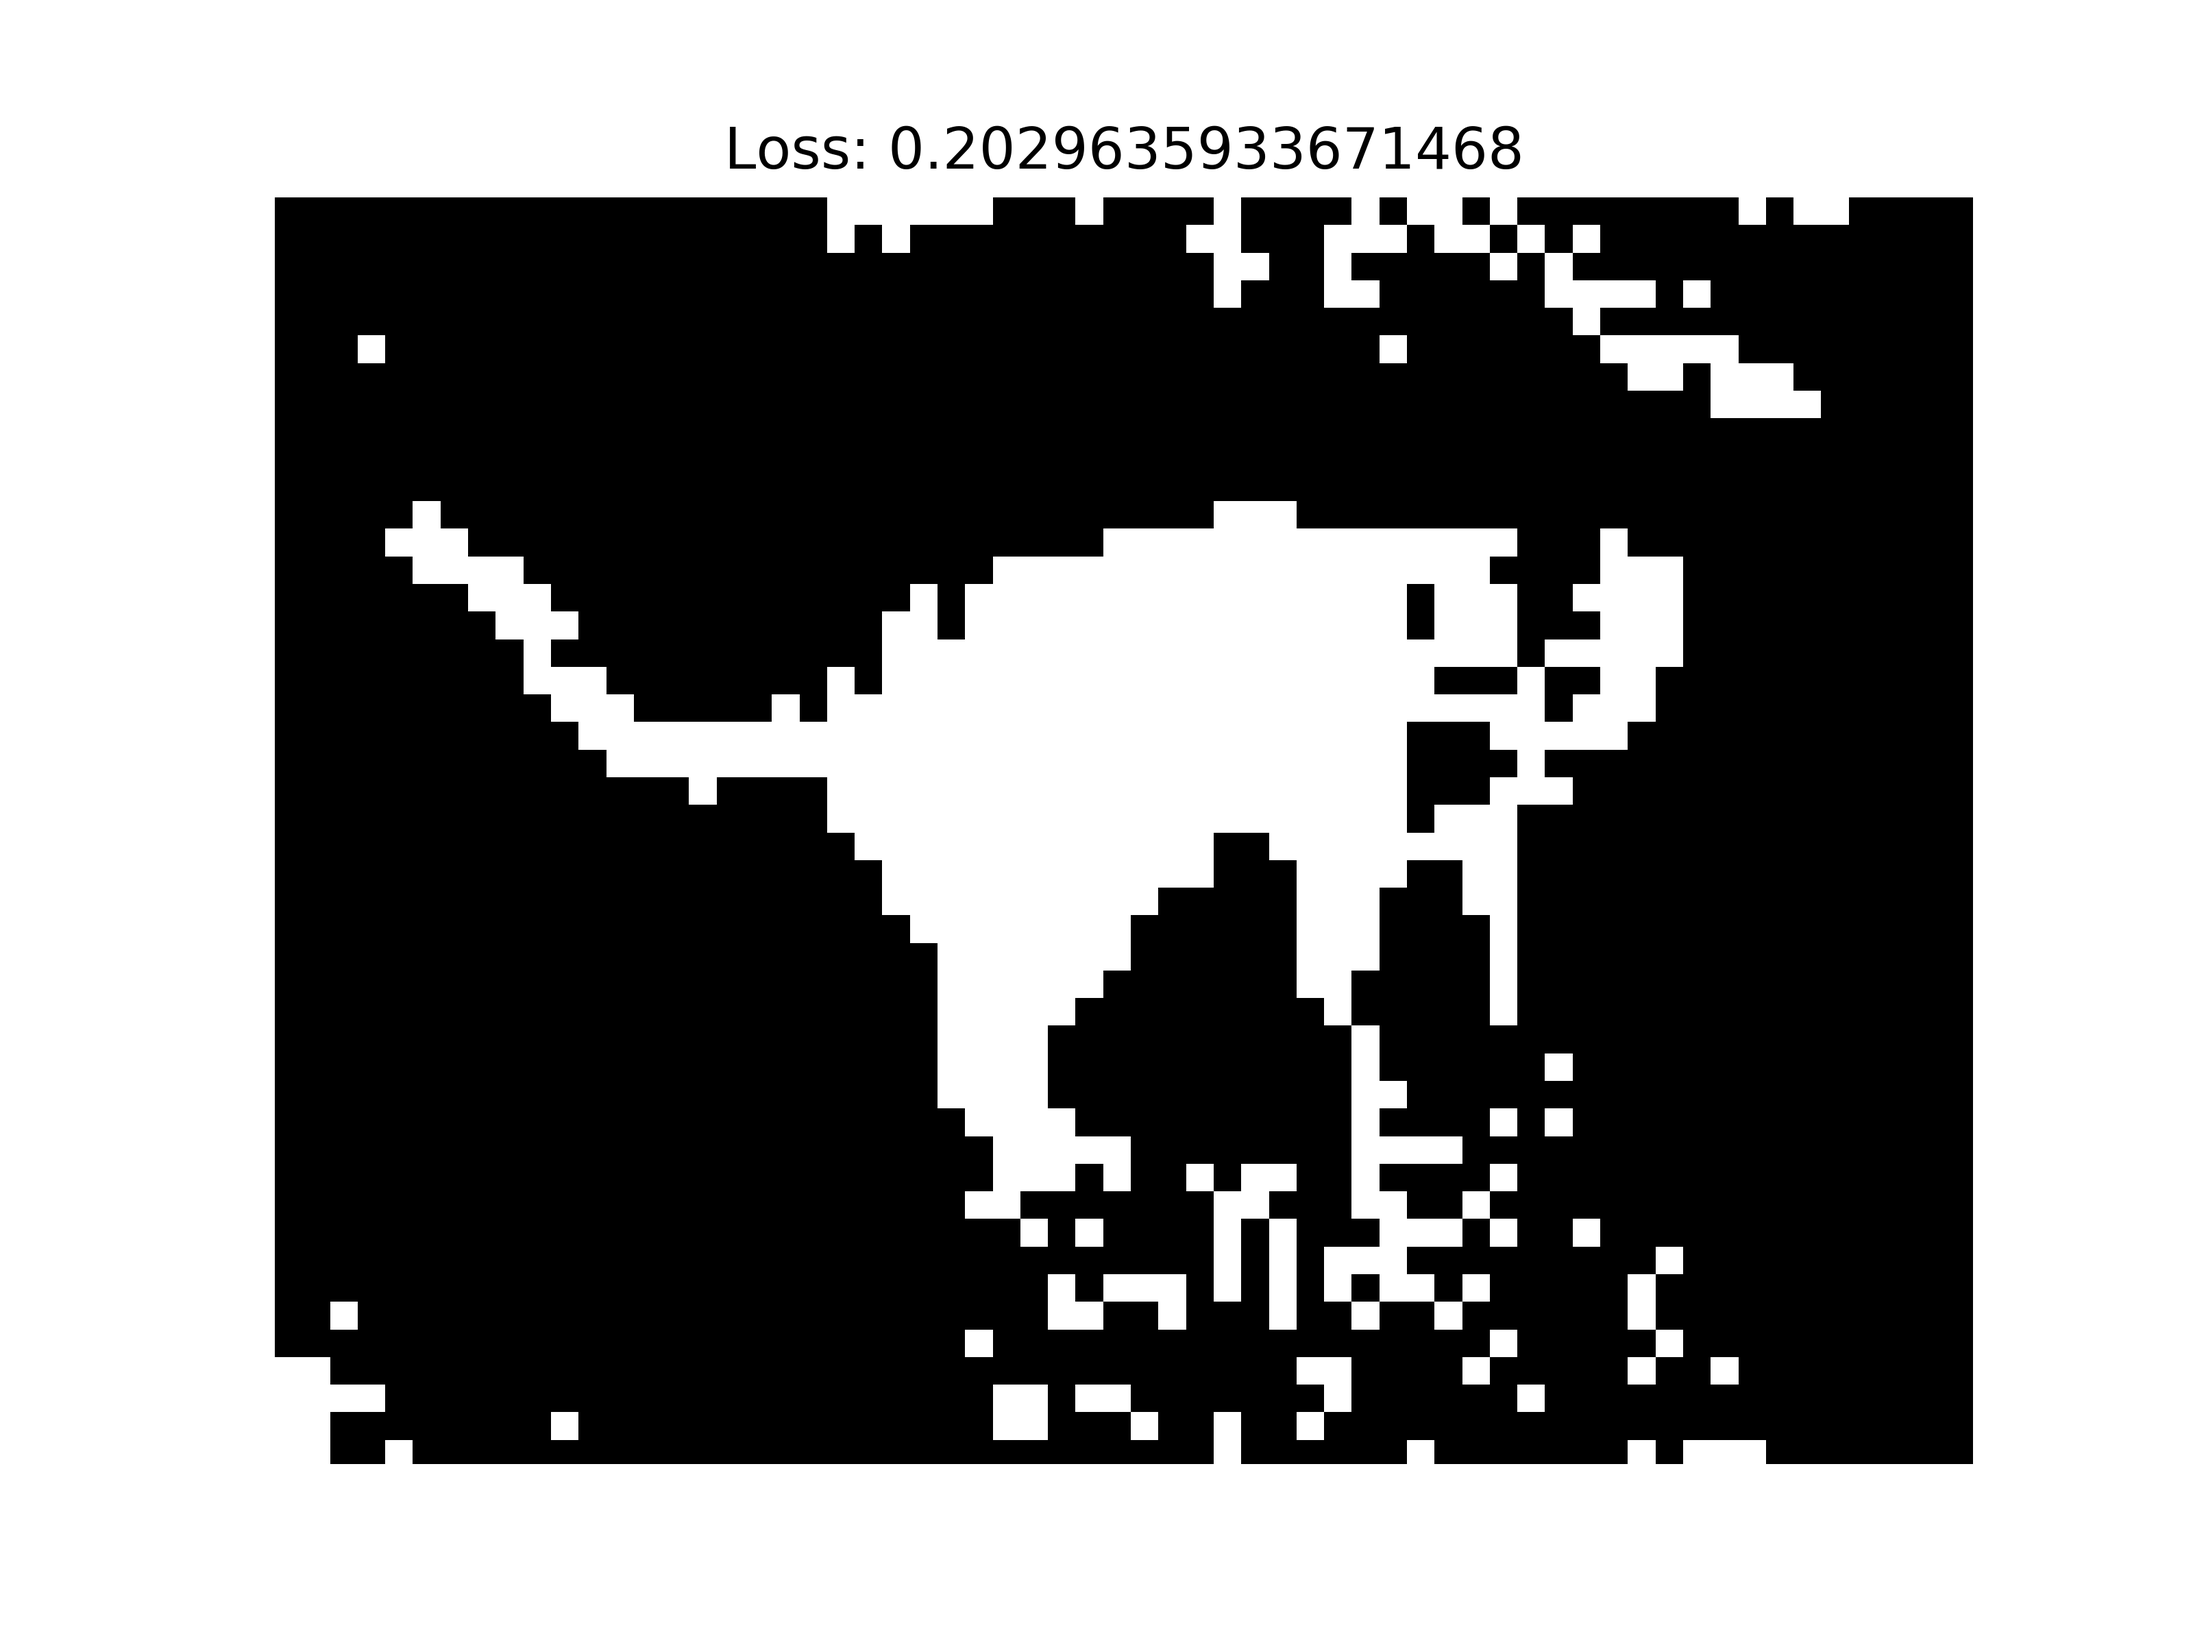
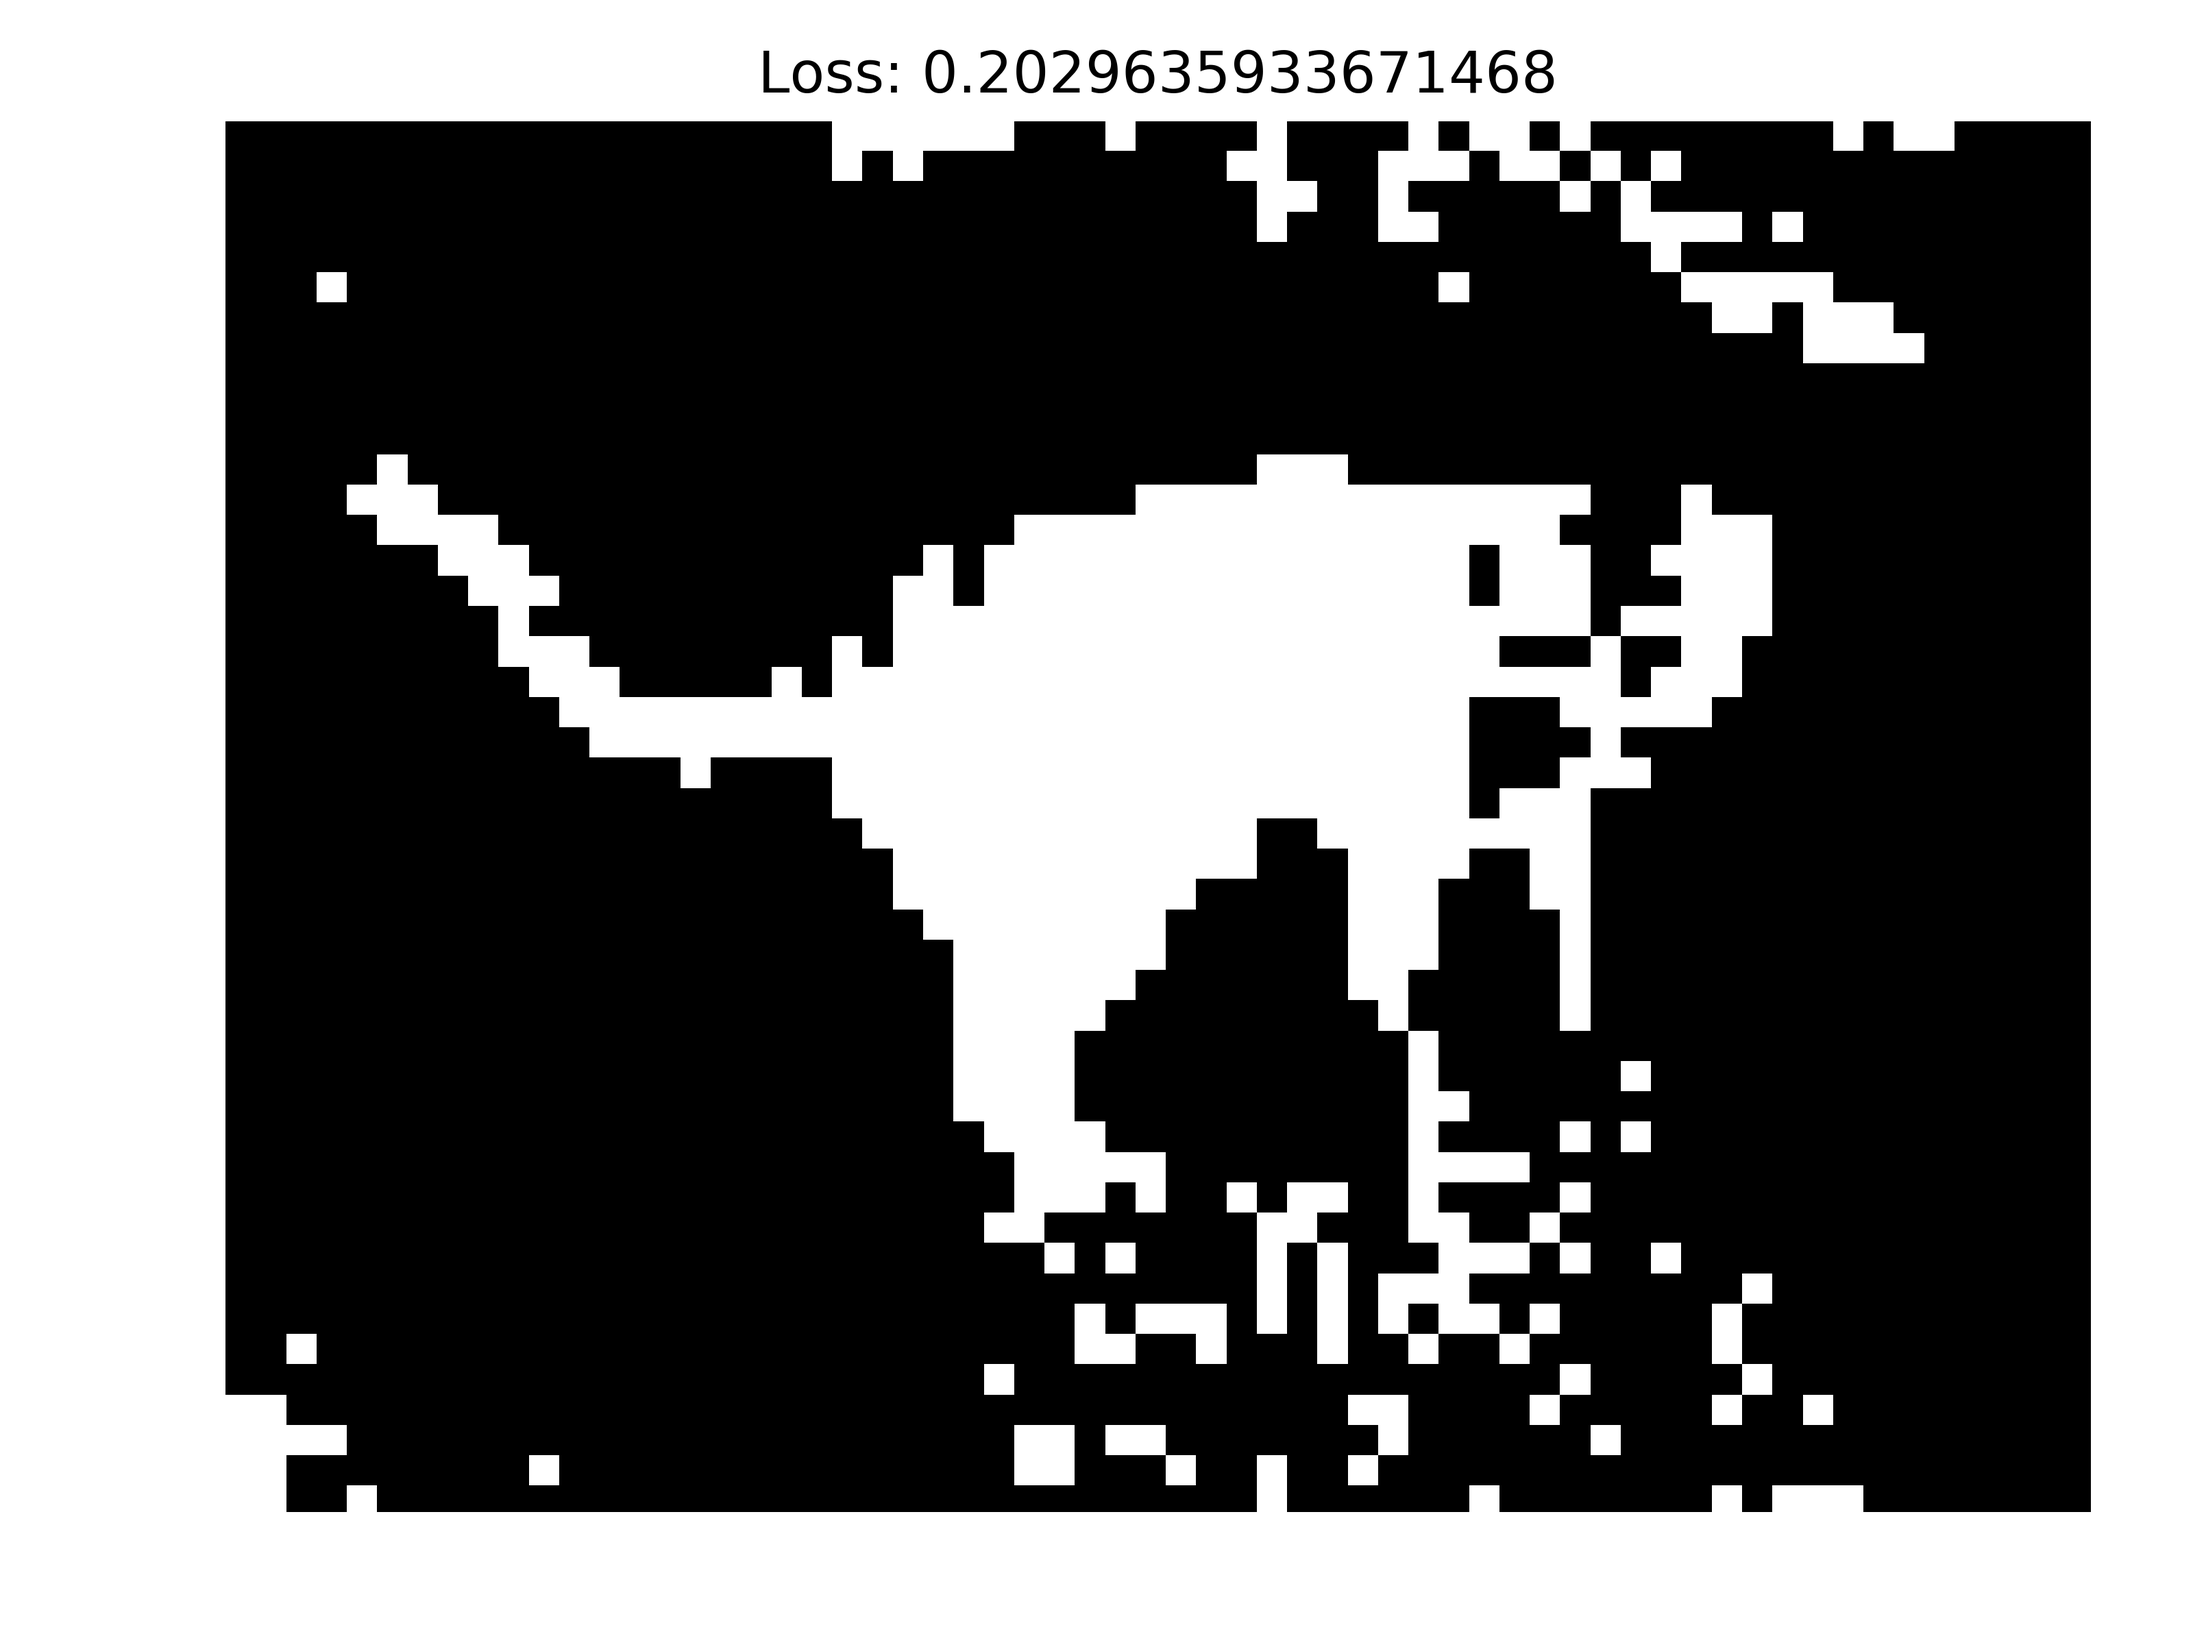
HW3

Changed region(s): [[0.0938, 0.0312, 0.9688, 0.9375], [0.625, 0.1875, 0.6562, 0.2188], [0.1562, 0.1875, 0.1875, 0.2188]]

diff --git a/HW3/HW3_EX2.py b/HW3/HW3_EX2.py
@@ -51,9 +51,10 @@ def cal_loss(output):
 
 
 if __name__ == '__main__':
-    img = plt.imread('data/cheetah_on_grass.jpg') / 255
-    m, n, c = img.shape
-    img = (img[:, :, 0] + img[:, :, 1] + img[:, :, 2]) / c
+    img = plt.imread('data/cat_grass.jpg') / 255
+    # m, n, c = img.shape
+    # img = (img[:, :, 0] + img[:, :, 1] + img[:, :, 2]) / c
+    m, n = img.shape
     output_overlap = np.zeros((m - 8, n - 8))
     output_non_overlap = np.zeros((m - 8, n - 8))
     process = 0
@@ -69,16 +70,18 @@ if __name__ == '__main__':
             output_overlap[i, j] = decision_func(patch_overlap)
             print(process / ((m - 8) * (n - 8)))
             process += 1
-    # loss_overlap = cal_loss(output_overlap)
-    # loss_non_overlap = cal_loss(output_non_overlap)
+    loss_overlap = cal_loss(output_overlap)
+    loss_non_overlap = cal_loss(output_non_overlap)
     plt.figure()
     plt.axis('off')
-    # plt.title('Loss: ' + str(loss_overlap))
+    plt.title('Loss: ' + str(loss_overlap))
     plt.imshow(output_overlap * 255, cmap='gray')
-    plt.savefig("screenshot/5.png", transparent=True, dpi=500, pad_inches=0)
+    plt.tight_layout()
+    plt.savefig("screenshot/1.png", transparent=True, dpi=500, pad_inches=0)
     plt.figure()
     plt.axis('off')
-    # plt.title('Loss: ' + str(loss_non_overlap))
+    plt.title('Loss: ' + str(loss_non_overlap))
     plt.imshow(output_non_overlap * 255, cmap='gray')
-    plt.savefig("screenshot/6.png", transparent=True, dpi=500, pad_inches=0)
+    plt.tight_layout()
+    plt.savefig("screenshot/2.png", transparent=True, dpi=500, pad_inches=0)
     plt.show()
